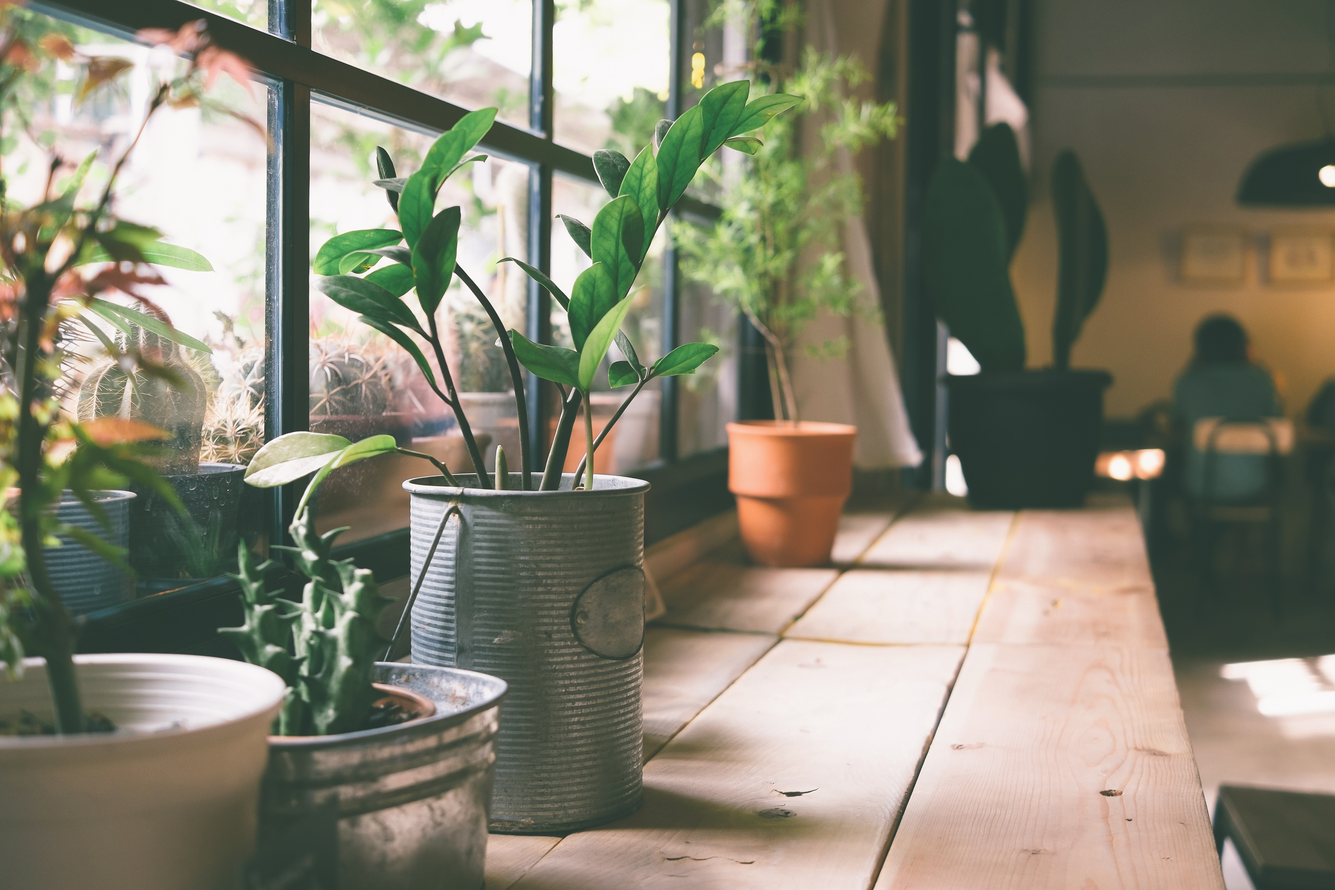
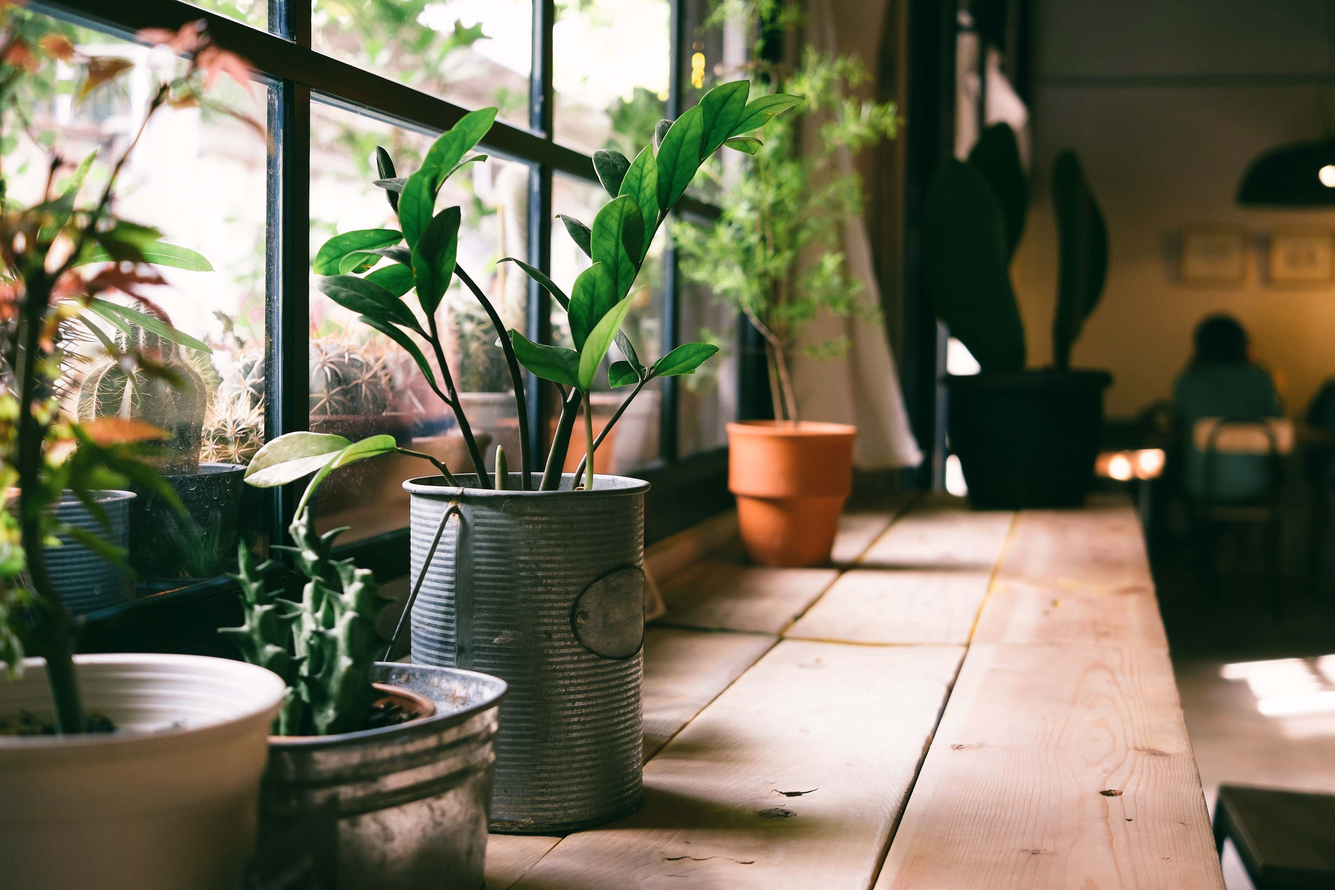
images

diff --git a/src/app/App.vue b/src/app/App.vue
@@ -47,7 +47,7 @@ export default {
 @import "./scss/style.scss";
 
 body {
-  background-image: url('./../../static/bgimg6ps.jpg');
+  background-image: url('./../../static/bgimg6.jpg');
   background-repeat: no-repeat;
   background-position: center;
   background-attachment: fixed;
